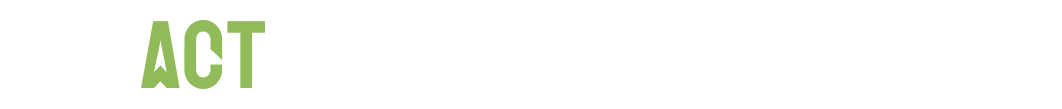
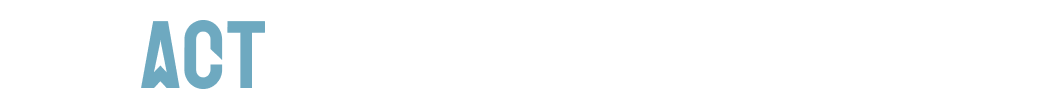
browser tab customization

Changed region(s): [[0.1243, 0.1651, 0.2486, 0.8257]]

diff --git a/frontend/public/index.html b/frontend/public/index.html
@@ -2,7 +2,7 @@
 <html lang="en">
   <head>
     <meta charset="utf-8" />
-    <link rel="icon" href="%PUBLIC_URL%/favicon.ico" />
+    <link rel="icon" href="%PUBLIC_URL%/icon.png" type="image/png" />
     <link href="https://fonts.googleapis.com/css2?family=Epilogue:wght@400;500;700&display=swap" rel="stylesheet">
     <meta name="viewport" content="width=device-width, initial-scale=1" />
     <meta name="theme-color" content="#000000" />
@@ -10,7 +10,7 @@
       name="description"
       content="Web site created using create-react-app"
     />
-    <link rel="apple-touch-icon" href="%PUBLIC_URL%/logo192.png" />
+    <link rel="apple-touch-icon" href="%PUBLIC_URL%/icon.png" type="image/png">
     <!--
       manifest.json provides metadata used when your web app is installed on a
       user's mobile device or desktop. See https://developers.google.com/web/fundamentals/web-app-manifest/
@@ -25,7 +25,7 @@
       work correctly both with client-side routing and a non-root public URL.
       Learn how to configure a non-root public URL by running `npm run build`.
     -->
-    <title>React App</title>
+    <title>ClimACT</title>
   </head>
   <body>
     <noscript>You need to enable JavaScript to run this app.</noscript>

diff --git a/frontend/src/components/Graph/GraphComponent.js b/frontend/src/components/Graph/GraphComponent.js
@@ -27,10 +27,6 @@ const GraphComponent = () => {
         };
     }, []);
 
-    useEffect(() => {
-        console.log('Screen Height:', screenHeight);
-    }, [screenHeight]);
-
     const [chartOptions, setChartOptions] = useState(null);
     const [errorMessage, setErrorMessage] = useState(null); // To store error messages
     const timePeriod = useSelector(state => state.timePeriod);
